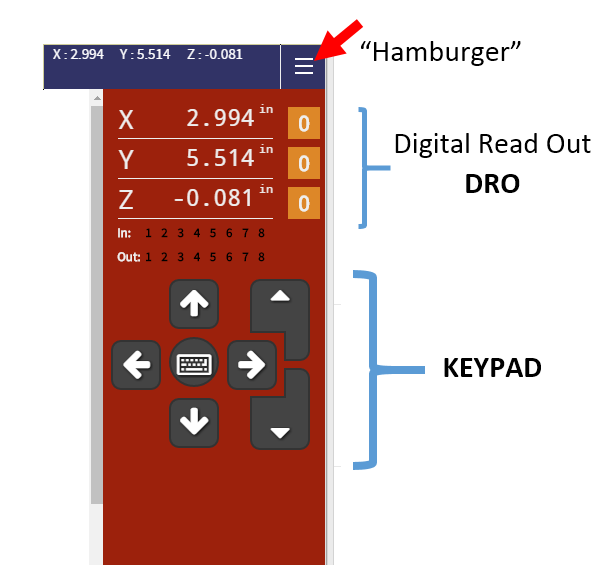
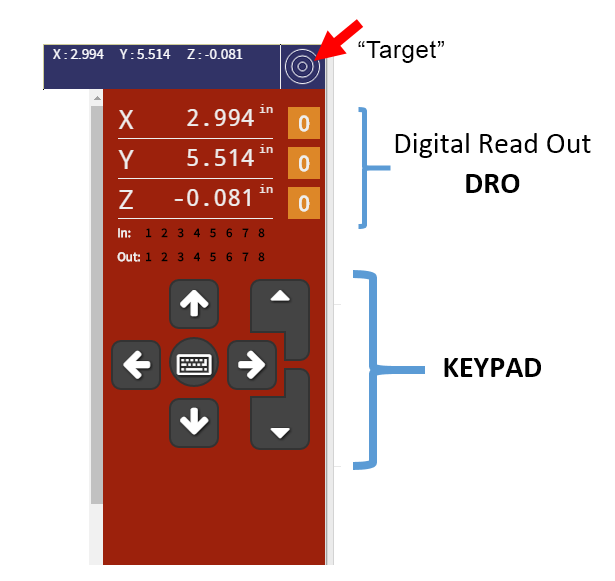
edits per jeanne to quick launch tab

Changed region(s): [[0.587, 0.062, 0.865, 0.1239], [0.4634, 0.0929, 0.5252, 0.1549]]

diff --git a/index.html b/index.html
@@ -33,16 +33,14 @@
         <!-- Launch pane -->
         <div class="tab-pane active" id="tab-startfire">
             <h2><strong>Hello! Welcome to Handibotting ...</strong></h2>
-            <p>If you haven't already done it, please take a look at the Handibot <strong>Safety Section</strong> from the <strong>Handibot Manual</strong>. [You should have received a hard copy with your tool. If not, there is a PDF version on the web at docs.handibot.com; but since you are probably connected to your tool in AP Mode at the moment, you'll need to get back on the Internet in order to view a copy.]</p>
-            <p><strong>Let's get started with your Handibot.</strong> Click through the action-list below to set-up your tool and carve a test file. It's a great way to familiarize yourself with using your Handibot. Read along then click the <strong>green labels</strong> as you encountere them to put your tool in action. Later you can take up the more challenging work of designing and creating your own projects and, running and managing your Handibot more directly.</p>
+            <h4>We’re going to move the tool and carve a test file.</h4>
+            <p>We'll move the Z-axis &emdash; it's the up-down, vertical axis that moves the router &emdash; to a higher position. The tool will bang into the upper limit (but it won't do any damage.) So, close the lid, then click the next green label&hellip;</p>
+            <h3><a class="btn btn-success btn-lg" id="call-zup"> Move the Z-axis up a little bit for clearance</a> </h3>
             <div>
             <hr width = "90%" noshade>
-              <span class='btn btn-primary'> Hey first things first ... let's remove the packing.</span>
-              <p>Let's let the tool do some of the work. We'll move the Z axis -- it's the up-down, vertical axis that moves the router -- to a higher position to allow you to remove the protective foam-cylinder from around the cutter. So, close the lid, then click the next green label ...</p>
-              <p><strong>Oh ... BTW, you'll be asked for permission</strong> whenever the Handibot is about to move! Push and Hold (1 sec) the plastic <strong>Green Button</strong> on the top of the tool. </p>
-              <p><strong> ... and yes, the tool will bang into the top </strong> limit because we want to make sure it is all the way up. (It won't do any damage, but if it gets annoying, you can hit the <strong>STOP Button</strong> at the bottom of the screen.)</p>
-              <h3><a class="btn btn-success btn-lg" id="call-zup"> CLICK HERE > to move Z-axis up a little bit for clearance ... </a> </h3>
-              <p> </p>  
+             
+              <p><strong>You’ll always be asked for permission</strong> whenever the Handibot is about to move, to concur, push and hold (1 sec) the plastic <strong>Green Button</strong> on the top of the tool.</p>
+              
               <p class='instr-photo'> </p>
               <div class="pure-g">
                 <div class="pure-u-1 pure-u-md-1-2 pure-u-lg-1-3 image-container">
@@ -52,12 +50,12 @@
                 </div>
               </div>  
               <p> </p>  
-              <p>After the tool has pulled up, <strong>remove that protective tube</strong>. </p>
+              <p>After the router has moved up, <strong>remove that protective foam tube</strong>. </p>
             </div>
             <div>
             <hr width = "90%" noshade>
-              <span class='btn btn-primary'> Moving Your Handibot Around ... </span>
-                <p>When we aren't helping you out in an App like this, you will use the "Keypad" in the right-side, "DRO", panel to move your tool around. Feel free to try its Keypad buttons by clicking on them -- the button in the middle enables the arrow keys on a PC. It's probably not visible so you can use the labels below to toggle the right-side panel in and out (and normally, you can use the little "hamburger" icon at the top right of the Dashboard to do this):</p>
+              <h4> Moving Your Handibot Around&hellip;</h4>
+                <p>Click on target in upper right corner and use the arrow buttons to move the Handibot. Despite the noise, it is safe to move the Handibot to all extreme directions. Just beware of moving the router all the way down, the installed bit can crash into your material, damaging the bit.</p>
 	            <p class='instr-photo'> </p>
 	            <div class="pure-g">
 	              <div class="pure-u-1 pure-u-md-1-2 pure-u-lg-1-3 image-container">
@@ -67,13 +65,13 @@
 	              </div>
 	            </div>  
 	            <p> </p>  
-                <button id="call-DRO-rollout" class="btn btn-success btn-lg">CLICK HERE > if the KEYPAD is not visble</button>
-                <button id="call-DRO-hide" class="btn btn-success btn-lg">or, HERE > to Hide the KEYPAD</button>
+                <button id="call-DRO-rollout" class="btn btn-success btn-lg">Make the KEYPAD visible</button><br>
+                <button id="call-DRO-hide" class="btn btn-success btn-lg">Hide the KEYPAD</button>
                 <p> </p>
             </div>
             <hr width = "90%" noshade>
             <div>
-              <span class='btn btn-primary'> When you use your Handibot, you'll almost always want to start by setting the Home location for each axis.</span>
+              <h4>Each time you use your Handibot, start by setting the Home location for each axis.</h4>
               <h3><a class="btn btn-success btn-lg" id="call-c3"> CLICK HERE > to Set Your XYZ HOME LOCATION </a> << Clear area before clicking !</h3>
                 <p>And yes, you'll need to use the <strong>Green Button</strong> again to get things started. Note that you can always use this "Set XYZ Home" function when needed to make sure the coordinates are all calibrated as they should be. This same function is included in the <code>FireUp!</code> App that will be useful to you for daily set-up tasks. We're making sure we are exactly "homed" here in all axes before running the test job.</p>
             </div>
